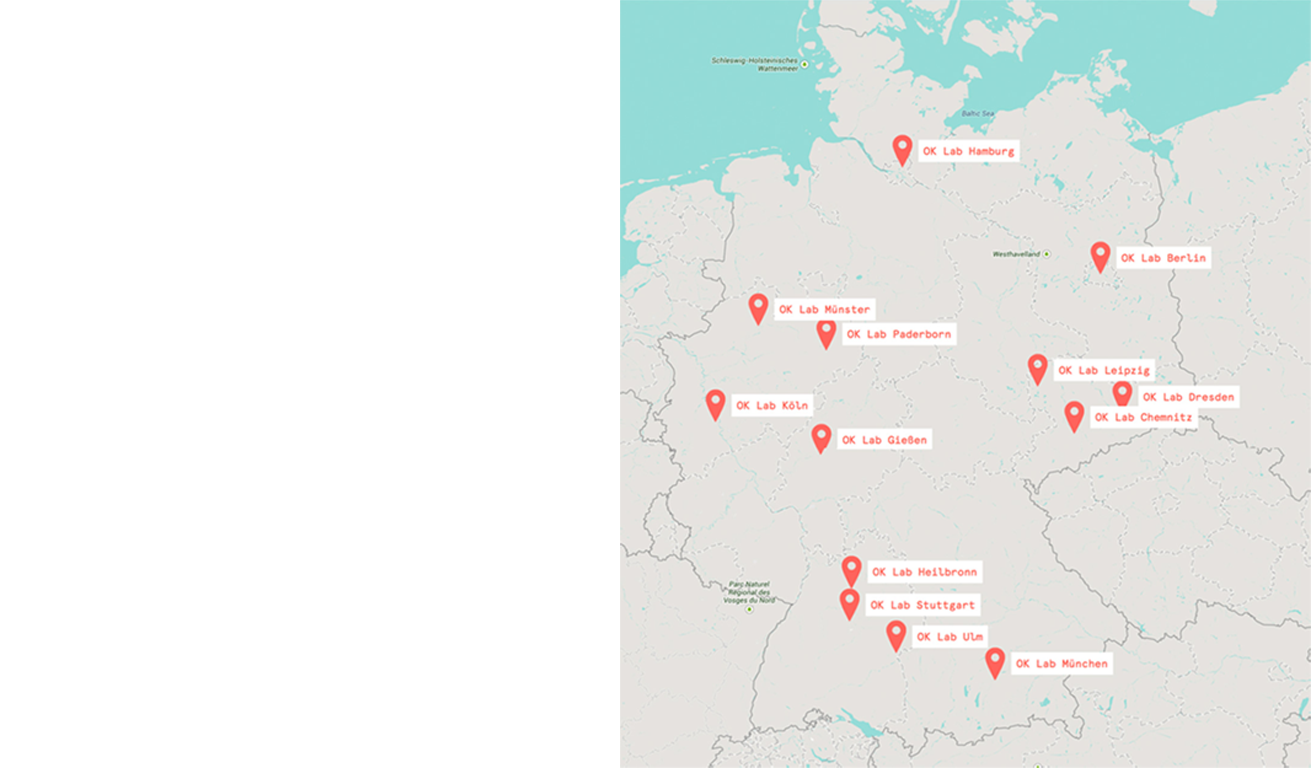
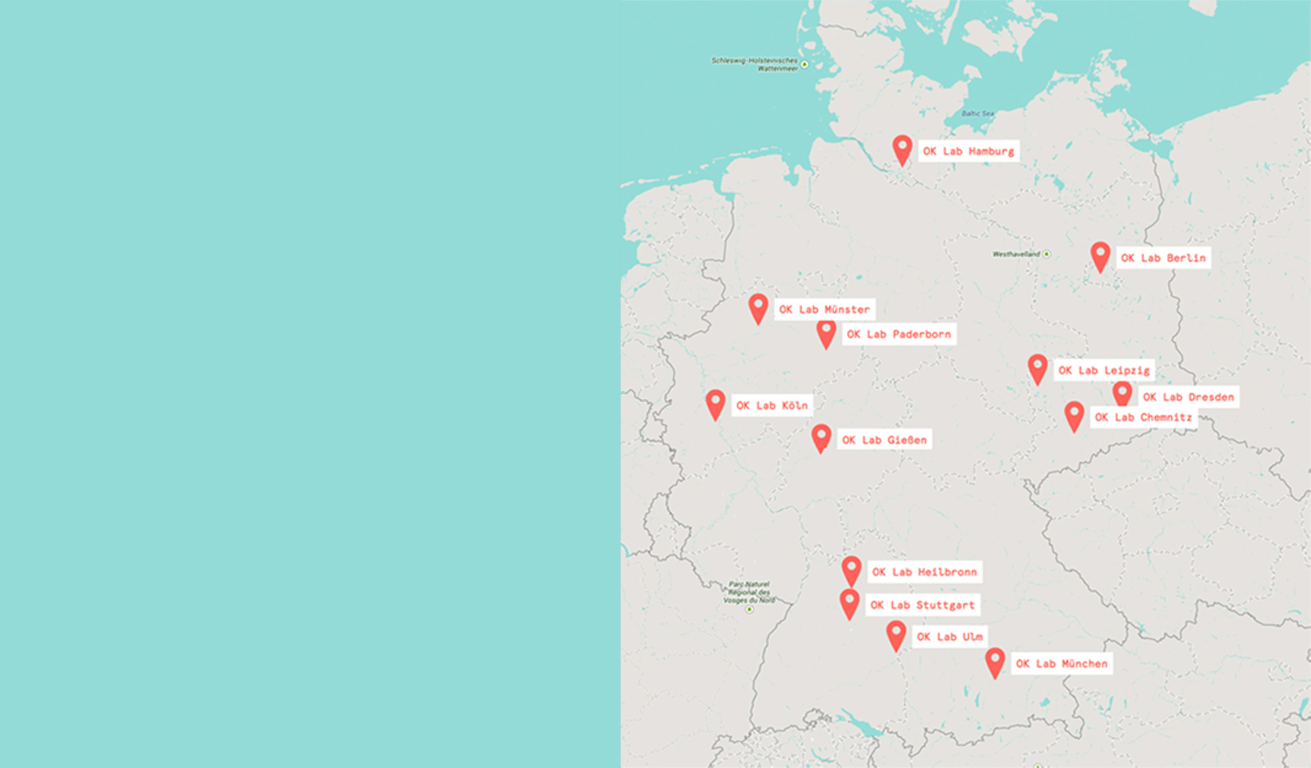
thank you fixed

diff --git a/css/base.css b/css/base.css
@@ -645,7 +645,7 @@ a.appspop:hover {
 @media only screen and (min-device-width: 768px) and (max-device-width: 1024px) {
   /* line 65, ../sass/_backgrounds.scss */
   .pagebg.imagethanksback {
-    background: #7ab5d6;
+    background: #00ABFA;
   }
 }
 
@@ -666,7 +666,7 @@ a.appspop:hover {
 @media only screen and (min-device-width: 768px) and (max-device-width: 1024px) {
   /* line 74, ../sass/_backgrounds.scss */
   .pagebg.hintergrund {
-    background: #7ab5d6;
+    background: #00ABFA;
   }
 }
 
@@ -687,7 +687,7 @@ a.appspop:hover {
 @media only screen and (min-device-width: 768px) and (max-device-width: 1024px) {
   /* line 88, ../sass/_backgrounds.scss */
   .pagebg.imageopen-closed {
-    background: #7ab5d6;
+    background: #00ABFA;
   }
 }
 
@@ -708,7 +708,7 @@ a.appspop:hover {
 @media only screen and (min-device-width: 768px) and (max-device-width: 1024px) {
   /* line 102, ../sass/_backgrounds.scss */
   .pagebg.imagegood_governance {
-    background: #7ab5d6;
+    background: #00ABFA;
   }
 }
 
@@ -729,7 +729,7 @@ a.appspop:hover {
 @media only screen and (min-device-width: 768px) and (max-device-width: 1024px) {
   /* line 116, ../sass/_backgrounds.scss */
   .pagebg.imageforthepeople {
-    background: #7ab5d6;
+    background: #00ABFA;
   }
 }
 
@@ -750,11 +750,32 @@ a.appspop:hover {
 @media only screen and (min-device-width: 768px) and (max-device-width: 1024px) {
   /* line 131, ../sass/_backgrounds.scss */
   .pagebg.karte {
-    background: #7ab5d6;
+    background: #00ABFA;
   }
 }
 
-/* line 147, ../sass/_backgrounds.scss */
+/* line 146, ../sass/_backgrounds.scss */
+.pagebg.karte2 {
+  background: url("../img/karte2.png") no-repeat;
+  background-size: cover;
+  background-position: right;
+  -ms-filter: "progid:DXImageTransform.Microsoft.AlphaImageLoader(src='img/karte2.png', sizingMethod='scale')";
+}
+@media screen and (max-width: 1024px) {
+  /* line 146, ../sass/_backgrounds.scss */
+  .pagebg.karte2 {
+    background: url("../img/forthepeople_small.jpg") no-repeat;
+    background-size: 1024px;
+  }
+}
+@media only screen and (min-device-width: 768px) and (max-device-width: 1024px) {
+  /* line 146, ../sass/_backgrounds.scss */
+  .pagebg.karte2 {
+    background: #00ABFA;
+  }
+}
+
+/* line 161, ../sass/_backgrounds.scss */
 .pagebg.imageiphone {
   background: url("../img/iphone.jpg") no-repeat;
   background-size: cover;
@@ -762,7 +783,7 @@ a.appspop:hover {
   -ms-filter: "progid:DXImageTransform.Microsoft.AlphaImageLoader(src='img/iphone.jpg', sizingMethod='scale')";
 }
 
-/* line 153, ../sass/_backgrounds.scss */
+/* line 167, ../sass/_backgrounds.scss */
 .pagebg.imagebike {
   background: url("../img/bike.jpg");
   background-size: cover;
@@ -770,7 +791,7 @@ a.appspop:hover {
   -ms-filter: "progid:DXImageTransform.Microsoft.AlphaImageLoader(src='img/bike.jpg', sizingMethod='scale')";
 }
 
-/* line 159, ../sass/_backgrounds.scss */
+/* line 173, ../sass/_backgrounds.scss */
 .pagebg.imagechicagocityhall {
   background: url("../img/chicago_cityhall.jpg");
   background-size: cover;
@@ -778,7 +799,7 @@ a.appspop:hover {
   -ms-filter: "progid:DXImageTransform.Microsoft.AlphaImageLoader(src='img/chicago_cityhall.jpg', sizingMethod='scale')";
 }
 
-/* line 165, ../sass/_backgrounds.scss */
+/* line 179, ../sass/_backgrounds.scss */
 .pagebg.imagebigdata2 {
   background: url("../img/big_data2.jpg");
   background-size: cover;
@@ -786,7 +807,7 @@ a.appspop:hover {
   -ms-filter: "progid:DXImageTransform.Microsoft.AlphaImageLoader(src='img/big_data_2.jpg', sizingMethod='scale')";
 }
 
-/* line 171, ../sass/_backgrounds.scss */
+/* line 185, ../sass/_backgrounds.scss */
 .pagebg.imagefellows {
   background: url("../img/fellows.jpg");
   background-size: cover;
@@ -794,7 +815,7 @@ a.appspop:hover {
   -ms-filter: "progid:DXImageTransform.Microsoft.AlphaImageLoader(src='img/fellows.jpg', sizingMethod='scale')";
 }
 
-/* line 177, ../sass/_backgrounds.scss */
+/* line 191, ../sass/_backgrounds.scss */
 .pagebg.imagebigdata {
   background: url("../img/big_data.jpg");
   background-size: cover;
@@ -802,7 +823,7 @@ a.appspop:hover {
   -ms-filter: "progid:DXImageTransform.Microsoft.AlphaImageLoader(src='img/big_data.jpg', sizingMethod='scale')";
 }
 
-/* line 183, ../sass/_backgrounds.scss */
+/* line 197, ../sass/_backgrounds.scss */
 .pagebg.imagehonolulu {
   background: url("../img/honolulu.jpg");
   background-size: cover;
@@ -810,7 +831,7 @@ a.appspop:hover {
   -ms-filter: "progid:DXImageTransform.Microsoft.AlphaImageLoader(src='img/honolulu.jpg', sizingMethod='scale')";
 }
 
-/* line 189, ../sass/_backgrounds.scss */
+/* line 203, ../sass/_backgrounds.scss */
 .pagebg.imageserena {
   background: url("../img/serena.jpg");
   background-size: cover;
@@ -818,7 +839,7 @@ a.appspop:hover {
   -ms-filter: "progid:DXImageTransform.Microsoft.AlphaImageLoader(src='img/serena.jpg', sizingMethod='scale')";
 }
 
-/* line 195, ../sass/_backgrounds.scss */
+/* line 209, ../sass/_backgrounds.scss */
 .pagebg.imagecommunity {
   background: url("../img/community.jpg");
   background-size: cover;
@@ -826,7 +847,7 @@ a.appspop:hover {
   -ms-filter: "progid:DXImageTransform.Microsoft.AlphaImageLoader(src='img/community.jpg', sizingMethod='scale')";
 }
 
-/* line 201, ../sass/_backgrounds.scss */
+/* line 215, ../sass/_backgrounds.scss */
 .pagebg.imagecfaoffice {
   background: url("../img/cfa_office.jpg");
   background-size: cover;
@@ -834,15 +855,15 @@ a.appspop:hover {
   -ms-filter: "progid:DXImageTransform.Microsoft.AlphaImageLoader(src='img/cfa_office.jpg', sizingMethod='scale')";
 }
 
-/* line 207, ../sass/_backgrounds.scss */
-.pagebg.imageannual_report_back {
-  background: url("../img/annual_report_back.jpg") no-repeat;
+/* line 221, ../sass/_backgrounds.scss */
+.pagebg.wiki {
+  background: url("../img/wiki.png") no-repeat;
   background-size: cover;
   background-position: right;
-  -ms-filter: "progid:DXImageTransform.Microsoft.AlphaImageLoader(src='img/annual_report_back.jpg', sizingMethod='scale')";
+  -ms-filter: "progid:DXImageTransform.Microsoft.AlphaImageLoader(src='img/wiki.png', sizingMethod='scale')";
 }
 
-/* line 213, ../sass/_backgrounds.scss */
+/* line 227, ../sass/_backgrounds.scss */
 .pagebg.imagepressback {
   background: url("../img/pressback.png") no-repeat;
   background-size: cover;
@@ -850,7 +871,7 @@ a.appspop:hover {
   -ms-filter: "progid:DXImageTransform.Microsoft.AlphaImageLoader(src='img/pressback.png', sizingMethod='scale')";
 }
 
-/* line 220, ../sass/_backgrounds.scss */
+/* line 234, ../sass/_backgrounds.scss */
 .pagebg img {
   min-width: 100%;
   min-height: 100%;
@@ -1364,7 +1385,7 @@ body {
   webkit-font-smoothing: subpixel-antialiased;
   text-align: left;
   font-weight: 600;
-  text-shadow: 0px 2px 6px rgba(0, 0, 0, 0.4);
+  text-shadow: 0px 2px 6px rgba(0, 0, 0, 0);
 }
 
 /* line 22, ../sass/_global-reset.scss */
@@ -2206,7 +2227,7 @@ a.startupspop:hover {
 
 /* line 3, ../sass/_getinvolved.scss */
 .getinvolved {
-  background: rgba(255, 255, 255, 0.95);
+  background: rgba(255, 255, 255, 0);
   background: #fff;
   color: #000;
   padding: 70px 80px;
@@ -2290,7 +2311,7 @@ a.startupspop:hover {
 
 /* line 75, ../sass/_getinvolved.scss */
 .getinvolved form {
-  background: rgba(214, 214, 214, 0.7);
+  background: rgba(214, 214, 214, 0);
   padding: 25px 30px;
   width: 50%;
   margin: 25px auto 10px auto;
@@ -2342,7 +2363,7 @@ a.startupspop:hover {
   color: #fff;
   margin: 30px 0px 0px 50px;
   text-align: left;
-  text-shadow: 0px 2px 6px rgba(0, 0, 0, 0.3);
+  text-shadow: 0px 2px 6px rgba(0, 0, 0, 0);
 }
 
 /* line 40, ../sass/_sidebar.scss */
@@ -2685,7 +2706,7 @@ iframe.twitter-share-button {
   color: #fff;
   margin: 30px 0px 0px 00px;
   text-align: left;
-  text-shadow: 0px 2px 6px rgba(0, 0, 0, 0.5);
+  text-shadow: 0px 2px 6px rgba(0, 0, 0, 0);
   text-transform: uppercase;
   padding: 0px 0px 75px 0px;
 }
@@ -2746,7 +2767,7 @@ iframe.twitter-share-button {
 /* line 201, ../sass/base.scss */
 .page.quote .title h1 {
   line-height: 10px;
-  text-shadow: 0px 2px 6px rgba(0, 0, 0, 0.4);
+  text-shadow: 0px 2px 6px rgba(0, 0, 0, 0);
   font-size: 115px;
   margin: 90px auto 117px;
   font-weight: 600;
@@ -3233,7 +3254,7 @@ Temporary css for image placeholders
 
 /* line 617, ../sass/base.scss */
 .companies {
-  background-color: rgba(255, 255, 255, 0.75);
+  background-color: rgba(255, 255, 255, 0);
   color: #000;
   text-shadow: none;
   float: left;

diff --git a/sass/_backgrounds.scss b/sass/_backgrounds.scss
@@ -68,7 +68,7 @@
   background-position:right;
   -ms-filter: "progid:DXImageTransform.Microsoft.AlphaImageLoader(src='img/thanksback.jpg', sizingMethod='scale')";
   @media only screen and (min-device-width : 768px) and (max-device-width : 1024px) {
-    background: #7ab5d6;
+    background: #00ABFA;
   }
 }
 .pagebg.hintergrund{ 
@@ -82,7 +82,7 @@
   }
   //ipad
   @media only screen and (min-device-width : 768px) and (max-device-width : 1024px) {
-    background: #7ab5d6;
+    background: #00ABFA;
   }
 }
 .pagebg.imageopen-closed{ 
@@ -96,7 +96,7 @@
   }
   //ipad
   @media only screen and (min-device-width : 768px) and (max-device-width : 1024px) {
-    background: #7ab5d6;
+    background: #00ABFA;
   }
 }
 .pagebg.imagegood_governance{ 
@@ -110,7 +110,7 @@
   }
   //ipad
   @media only screen and (min-device-width : 768px) and (max-device-width : 1024px) {
-    background: #7ab5d6;
+    background: #00ABFA;
   }
 }
 .pagebg.imageforthepeople{ 
@@ -124,7 +124,7 @@
   }
   //ipad
   @media only screen and (min-device-width : 768px) and (max-device-width : 1024px) {
-    background: #7ab5d6;
+    background: #00ABFA;
   }
 }
 
@@ -139,10 +139,24 @@
   }
   //ipad
   @media only screen and (min-device-width : 768px) and (max-device-width : 1024px) {
-    background: #7ab5d6;
+    background: #00ABFA;
   }
 }
 
+.pagebg.karte2{ 
+  background: url("../img/karte2.png") no-repeat;
+  background-size:cover;
+  background-position:right;
+  -ms-filter: "progid:DXImageTransform.Microsoft.AlphaImageLoader(src='img/karte2.png', sizingMethod='scale')";
+  @media screen and (max-width: 1024px) {
+    background: url("../img/forthepeople_small.jpg") no-repeat;
+    background-size: 1024px;
+  }
+  //ipad
+  @media only screen and (min-device-width : 768px) and (max-device-width : 1024px) {
+    background: #00ABFA;
+  }
+}
 
 .pagebg.imageiphone{ 
   background: url("../img/iphone.jpg") no-repeat;
@@ -204,11 +218,11 @@
   background-position:center;
   -ms-filter: "progid:DXImageTransform.Microsoft.AlphaImageLoader(src='img/cfa_office.jpg', sizingMethod='scale')";
 }
-.pagebg.imageannual_report_back{ 
-  background: url("../img/annual_report_back.jpg") no-repeat;
+.pagebg.wiki{ 
+  background: url("../img/wiki.png") no-repeat;
   background-size:cover;
   background-position:right;
-  -ms-filter: "progid:DXImageTransform.Microsoft.AlphaImageLoader(src='img/annual_report_back.jpg', sizingMethod='scale')";
+  -ms-filter: "progid:DXImageTransform.Microsoft.AlphaImageLoader(src='img/wiki.png', sizingMethod='scale')";
 }
 .pagebg.imagepressback{ 
   background: url("../img/pressback.png") no-repeat;

diff --git a/_posts/2013-01-11-thank you.html b/_posts/2013-01-11-thank you.html
@@ -1,0 +1,14 @@
+---
+layout: fullpage
+title: Stories
+notitle: true
+pagetype: quote
+bgcolor: 7ab5d6
+nosidebar: true
+published: true
+section: stories
+---
+<div class="title">
+	<h1>THANK YOU! <3 </h1>
+</div>
+

diff --git a/_posts/2013-01-30-network.html b/_posts/2013-01-30-network.html
@@ -10,6 +10,7 @@ nosidebar: true
 <div class="intropage">
   <h1>13 OK Labs in cities <br>
     all over Germany.<br>
-    From Hamburg to Munich.<br>
+    From Hamburg <br>
+    to Munich.<br>
   </h1>
 </div>
